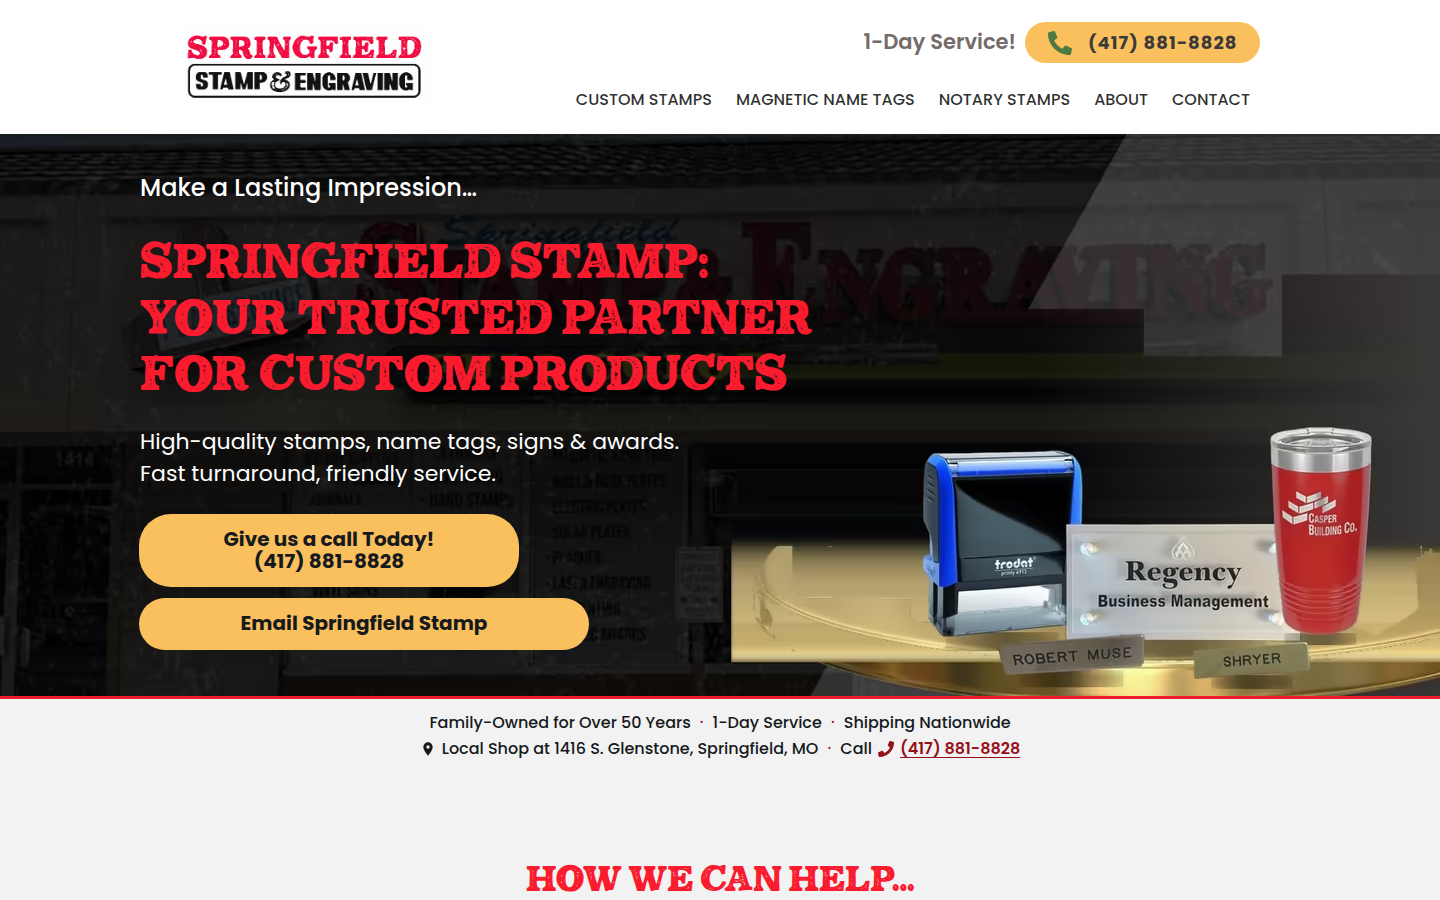
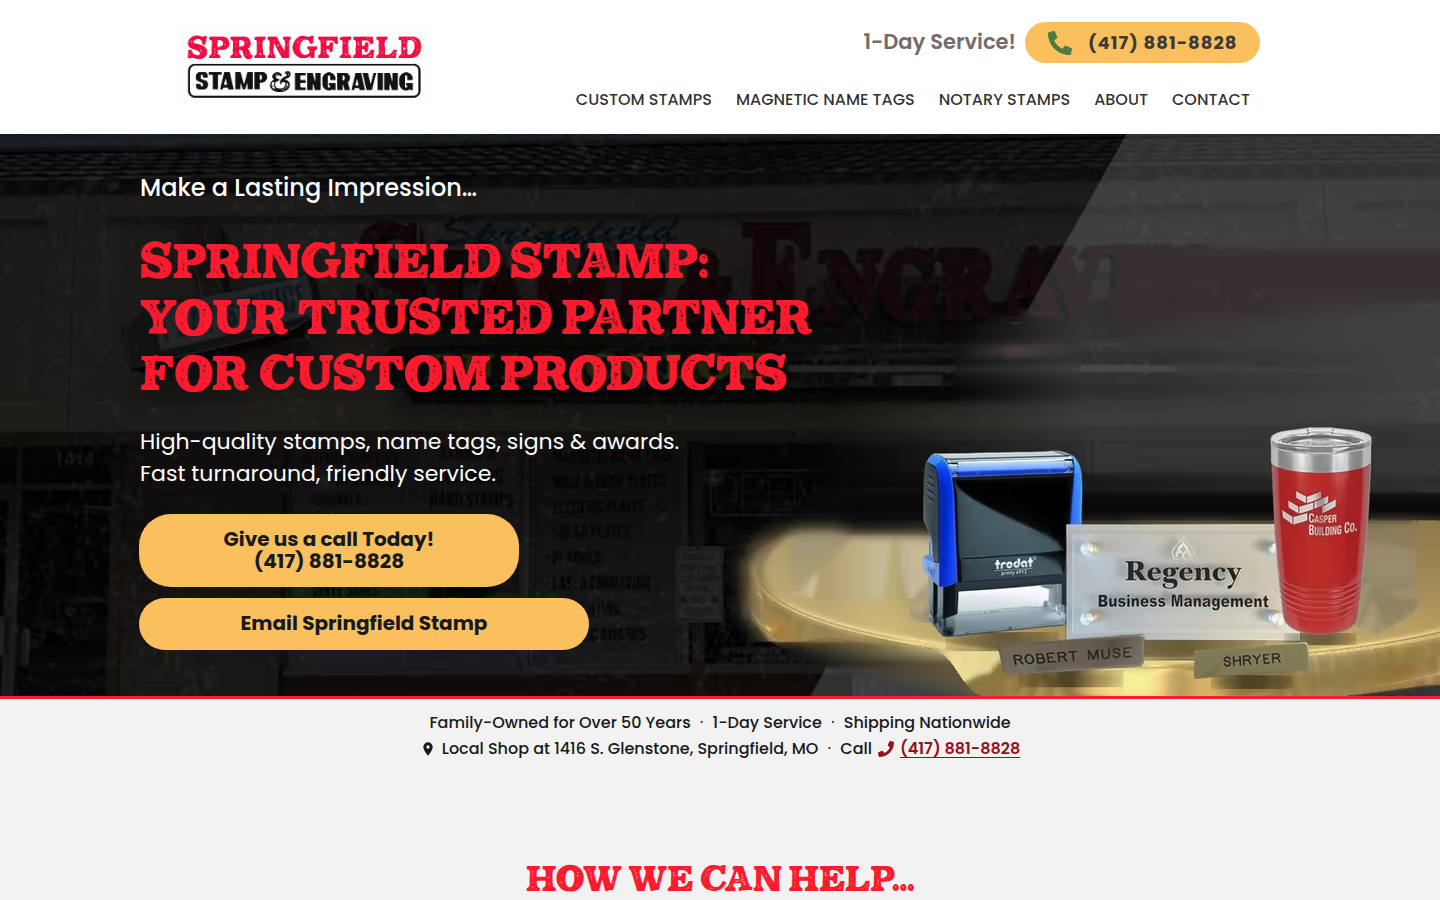
Blend the desktop hero back into the original storefront and gold table.
Remove the paint-out boxes behind the sign and let the photographed table curve show, without moving the products.

diff --git a/scripts/header-options/finish_option4.py b/scripts/header-options/finish_option4.py
@@ -1,12 +1,13 @@
 #!/usr/bin/env python3
-"""Seat Option 4 on the original glossy gold table and write the hero photos.
+"""Seat Option 4 on the original glossy gold table and write the desktop hero.
 
 Option 4 is the one Josh picked: Robert Muse and Shryer name bars, the Regency
 desk sign, the red Casper tumbler, and the blue Trodat Printy 4913.
 
-The photographic table (highlights and the front rim) is kept. Only the old
-products are painted out, using the table's own gold and the wall beside them.
-Nothing here is a newly drawn ellipse.
+The photographed table and the storefront stay. Old products are removed by
+continuing the real wall and the real gold into the holes they covered. Nothing
+here is a newly drawn ellipse. The mobile hero was approved separately and this
+script does not rewrite it.
 """
 
 from __future__ import annotations
@@ -17,7 +18,8 @@ from pathlib import Path
 import cv2
 import numpy as np
 from PIL import Image, ImageDraw, ImageFilter
-from rembg import new_session
+from rembg import new_session, remove
+from scipy.ndimage import distance_transform_edt, gaussian_filter1d, maximum_filter1d
 
 sys.path.insert(0, str(Path(__file__).resolve().parent))
 from build_options import cut, cut_tumbler, scale_to_height  # noqa: E402
@@ -26,77 +28,124 @@ ROOT = Path(__file__).resolve().parents[2]
 HERO = ROOT / "src" / "assets" / "springfield-stamps4.jpg"
 OUT = ROOT / "docs" / "header-options" / "option-4"
 DESKTOP_ASSET = ROOT / "src" / "assets" / "home-hero.jpg"
-MOBILE_ASSET = ROOT / "src" / "assets" / "home-hero-mobile.jpg"
 
 
-def clean_plate(src: np.ndarray) -> np.ndarray:
-    """Remove the old hero products. Keep the photographed gold table."""
-    h, w = src.shape[:2]
+def _channels(src: np.ndarray):
     r, g, b = [src[:, :, i].astype(np.int16) for i in range(3)]
-    yy, xx = np.indices((h, w))
+    yy, xx = np.indices(src.shape[:2])
+    lum = src.astype(np.float32).mean(2)
+    return r, g, b, yy, xx, lum
+
+
+def _gold_mask(src: np.ndarray) -> np.ndarray:
+    """The photographed table only. Cream name tags and white stamps are not gold."""
+    r, g, b, yy, xx, lum = _channels(src)
     gold = (
-        (r > 150) & (g > 125) & (b < 165) & (r > b + 28) & (g > b + 18)
-        & (np.abs(r - g) < 36) & (yy > 500) & (xx > 860)
+        (r > 140) & (g > 110) & (b < 155) & (r > b + 40) & (g > b + 25)
+        & (np.abs(r - g) < 40) & (yy > 470) & (xx > 860) & (lum > 90) & (lum < 235)
     )
-    letters = (r > 80) & (r > g + 18) & (r > b + 18) & (yy < 250) & (g < 120)
+    n, labels, stats, _ = cv2.connectedComponentsWithStats(gold.astype(np.uint8), 8)
+    if n <= 1:
+        return gold
+    main = 1 + int(np.argmax(stats[1:, cv2.CC_STAT_AREA]))
+    return labels == main
 
-    # Tight boxes around each old product. Padding is background, which the
-    # fill below replaces from the real pixels next to the box.
-    rects = [
-        (860, 290, 340, 250),
-        (850, 455, 420, 200),
-        (1090, 225, 240, 360),
-        (1330, 280, 230, 250),
-        (1490, 185, 184, 460),
-        (1105, 515, 300, 150),
-        (1300, 525, 220, 145),
-        (1450, 485, 224, 185),
-    ]
-    hole = np.zeros((h, w), bool)
-    for x, y, ww, hh in rects:
-        hole[y : y + hh, x : x + ww] = True
-    hole[gold] = False
-    hole[letters] = False
-    hole[:175, :] = False
-    # Leave the photographed front rim alone.
-    hole[yy > 635] = False
 
+def _rim_bottom(gold: np.ndarray) -> np.ndarray:
+    """Smooth lower edge of the real table, ignoring dips where a product covers the rim."""
+    h, w = gold.shape
+    ymax = np.full(w, np.nan)
+    for x in range(w):
+        ys = np.flatnonzero(gold[:, x])
+        if ys.size >= 8:
+            ymax[x] = float(ys.max())
+    known = np.flatnonzero(~np.isnan(ymax))
+    curve = np.interp(np.arange(w), known, ymax[known])
+    return gaussian_filter1d(maximum_filter1d(curve, 90), 14)
+
+
+def _product_mask(src: np.ndarray, alpha: np.ndarray, gold: np.ndarray, env: np.ndarray) -> np.ndarray:
+    """Old products only. Sign letters, the yellow word, and the gold table stay."""
+    r, g, b, yy, xx, lum = _channels(src)
+    h, w = gold.shape
+    # Dark maroon channel letters. Bright red product caps are a higher red and sit lower.
+    sign = (
+        (r > g + 4) & (r > b + 4) & (r > 14) & (r < 110) & (g < 70)
+        & (yy > 145) & (yy < 308) & (xx > 480)
+    )
+    yellow = (r > 160) & (g > 120) & (b < 95) & (g > b + 30) & (yy > 255) & (yy < 365) & (xx < 1280)
+
+    raw = ((alpha > 12) & (xx > 860) & (yy > 145)).astype(np.uint8)
+    closed = cv2.morphologyEx(raw, cv2.MORPH_CLOSE, cv2.getStructuringElement(cv2.MORPH_ELLIPSE, (19, 19)))
+    n, labels, stats, _ = cv2.connectedComponentsWithStats(closed, 8)
+    mask = np.zeros((h, w), bool)
+    for i in range(1, n):
+        x, y, ww, hh, area = stats[i]
+        if area < 400 or (y < 175 and x > 1500 and hh < 65):
+            continue
+        mask[labels == i] = True
+    # The open frame of the big stamp is thin and dark, so the cutout misses it.
+    near = cv2.dilate(mask.astype(np.uint8), cv2.getStructuringElement(cv2.MORPH_ELLIPSE, (13, 13))).astype(bool)
+    mask |= near & (lum < 36) & (yy > 165) & (yy < 430) & (xx > 1180) & ~sign
+    cap = (yy > 155) & (yy < 300) & (xx > 1480) & (xx < 1665)
+    wallish = (np.abs(r - g) < 12) & (np.abs(g.astype(int) - b) < 14) & (lum > 40) & (lum < 88)
+    mask |= cap & ~wallish & ~sign
+    dist = distance_transform_edt(~gold)
+    # Name tags and the other pieces sitting on the gold, just above the visible metal.
+    mask |= (dist < 58) & (yy <= env[xx] + 2) & (yy > 488) & (xx > 870) & ~gold & (lum > 22)
+    mask[sign | yellow | gold] = False
+    mask[:140, :] = False
+    mask[:, :860] = False
+    return mask, sign, yellow, dist
+
+
+def _continue_rows(src: np.ndarray, mask: np.ndarray) -> np.ndarray:
+    """Fill each hole from the real pixels to its left and right on the same row."""
     out = src.copy()
-    # Above the table, continue the wall from the clear column just left of
-    # the products, plus the light leak that is already on the right.
-    wall_hole = hole & (yy < 500)
-    leak_c = np.array([60.0, 58.0, 56.0])
-    for y in np.flatnonzero(wall_hole.any(1)):
-        holes = np.flatnonzero(wall_hole[y])
-        base = src[y, 860:910].mean(axis=0).astype(np.float32)
-        lk = np.clip((holes.astype(np.float32) - 1200) / 480.0, 0, 1)
-        out[y, holes] = np.clip(base * (1 - lk)[:, None] + leak_c * lk[:, None], 0, 255).astype(np.uint8)
+    for y in np.flatnonzero(mask.any(1)):
+        hole = mask[y]
+        known = np.flatnonzero(~hole)
+        if known.size == 0:
+            continue
+        xs = np.flatnonzero(hole)
+        idx = np.searchsorted(known, xs)
+        left = known[np.clip(idx - 1, 0, known.size - 1)]
+        right = known[np.clip(idx, 0, known.size - 1)]
+        dl = (xs - left).astype(np.float32)
+        dr = (right - xs).astype(np.float32)
+        both = (dl < 1100) & (dr < 1100)
+        out[y, xs] = src[y, np.where(dl <= dr, left, right)]
+        if both.any():
+            t = (dl[both] / np.maximum(dl[both] + dr[both], 1))[:, None]
+            mixed = src[y, left[both]].astype(np.float32) * (1 - t) + src[y, right[both]].astype(np.float32) * t
+            out[y, xs[both]] = np.clip(mixed, 0, 255).astype(np.uint8)
+    return out
 
-    trusted = gold & ~hole & (xx < 1200)
-    med = np.full((h, 3), 180, np.float32)
-    has = np.zeros(h, bool)
-    for y in range(h):
-        xs = np.flatnonzero(trusted[y])
-        if xs.size >= 6:
-            med[y] = np.median(src[y, xs], axis=0)
-            has[y] = True
-    known_y = np.flatnonzero(has)
-    for y in range(h):
-        if not has[y] and known_y.size:
-            med[y] = med[known_y[np.argmin(np.abs(known_y - y))]]
-    table_hole = hole & (yy >= 500)
-    ys, xs = np.where(table_hole)
-    right = np.clip((xs.astype(np.float32) - 1050) / 620.0, 0, 1)
-    gold_c = med[ys] + right[:, None] * np.array([14.0, 12.0, 6.0])
-    # Soften the back edge of the table into the wall instead of a hard cut.
-    fade = np.clip((ys.astype(np.float32) - 498) / 48.0, 0, 1)
-    wall_c = np.stack([src[y, 860:910].mean(axis=0) for y in ys]).astype(np.float32)
-    out[ys, xs] = np.clip(wall_c * (1 - fade)[:, None] + gold_c * fade[:, None], 0, 255).astype(np.uint8)
 
-    blur = cv2.GaussianBlur(out, (0, 0), 1.6)
-    out[hole] = (out[hole].astype(np.float32) * 0.35 + blur[hole].astype(np.float32) * 0.65).astype(np.uint8)
-    out[gold] = src[gold]
-    out[letters] = src[letters]
+def clean_plate(src: np.ndarray, alpha: np.ndarray) -> np.ndarray:
+    """Remove the old hero products. Keep the photographed gold and the storefront."""
+    gold = _gold_mask(src)
+    env = _rim_bottom(gold)
+    mask, sign, yellow, dist = _product_mask(src, alpha, gold, env)
+    wall = _continue_rows(src, mask)
+    # Soften row steps in the repaired wall. Letters and gold are put back after.
+    vert = cv2.GaussianBlur(wall, (1, 35), 0)
+    wall[mask] = (wall[mask].astype(np.float32) * 0.22 + vert[mask].astype(np.float32) * 0.78).astype(np.uint8)
+    keep = gold | sign | yellow
+    wall[keep] = src[keep]
+
+    _, inds = distance_transform_edt(~gold, return_indices=True)
+    field = src[inds[0], inds[1]].astype(np.float32)
+    for _ in range(2):
+        field = cv2.GaussianBlur(field, (0, 0), 1.8)
+        field[gold] = src[gold]
+    yy = np.indices(gold.shape)[0]
+    on = mask & (dist < 64) & (yy <= env[np.arange(gold.shape[1])] + 2) & (yy > 485)
+    band = np.clip(cv2.GaussianBlur(on.astype(np.float32), (0, 0), 11) * 1.8, 0, 1)
+    band[yy > env[np.arange(gold.shape[1])]] = 0
+    band[keep] = 0
+    out = np.clip(wall.astype(np.float32) * (1 - band[..., None]) + field * band[..., None], 0, 255).astype(np.uint8)
+    out[keep] = src[keep]
     return out
 
 
@@ -133,17 +182,11 @@ def layout(plate: Image.Image, sprites: dict[str, Image.Image]) -> Image.Image:
     return canvas.convert("RGB")
 
 
-def mobile_from(scene: Image.Image) -> Image.Image:
-    """A short, wide frame of the same table. All four products stay in the middle,
-    which is what the live hero shows at object-position 32%."""
-    # 794×330, the same aspect as the 748×311 mobile hero.
-    crop = scene.crop((880, 328, 1674, 658))
-    return crop.resize((748, 311), Image.Resampling.LANCZOS)
-
-
 def main() -> None:
     print("cutting products…", flush=True)
     session = new_session("u2net")
+    src = np.array(Image.open(HERO).convert("RGB"))
+    alpha = np.array(remove(Image.fromarray(src), session=session))[:, :, 3]
     sprites = {
         "blue": cut(session, "stamp-blue-4913.jpg", erode=1),
         "sign": cut(session, "signs-standoff-printed-2.jpg", erode=1),
@@ -151,17 +194,14 @@ def main() -> None:
         "muse": cut(session, "nametags-police.jpg", (280, 560, 780, 780), erode=1),
         "shryer": cut(session, "nametags-police.jpg", (300, 760, 880, 1000), erode=1),
     }
-    for k, im in sprites.items():
-        print(f"  {k} {im.size}", flush=True)
+    for key, im in sprites.items():
+        print(f"  {key} {im.size}", flush=True)
     print("clearing the old products…", flush=True)
-    plate = Image.fromarray(clean_plate(np.array(Image.open(HERO).convert("RGB"))))
-    scene = layout(plate, sprites)
+    scene = layout(Image.fromarray(clean_plate(src, alpha)), sprites)
     OUT.mkdir(parents=True, exist_ok=True)
     scene.save(OUT / "final-scene-desktop.jpg", quality=92, optimize=True)
-    mobile_from(scene).save(OUT / "final-scene-mobile.jpg", quality=92, optimize=True)
     scene.save(DESKTOP_ASSET, quality=92, optimize=True)
-    mobile_from(scene).save(MOBILE_ASSET, quality=92, optimize=True)
-    print("wrote", DESKTOP_ASSET.name, MOBILE_ASSET.name, flush=True)
+    print("wrote", DESKTOP_ASSET.name, flush=True)
 
 
 if __name__ == "__main__":
